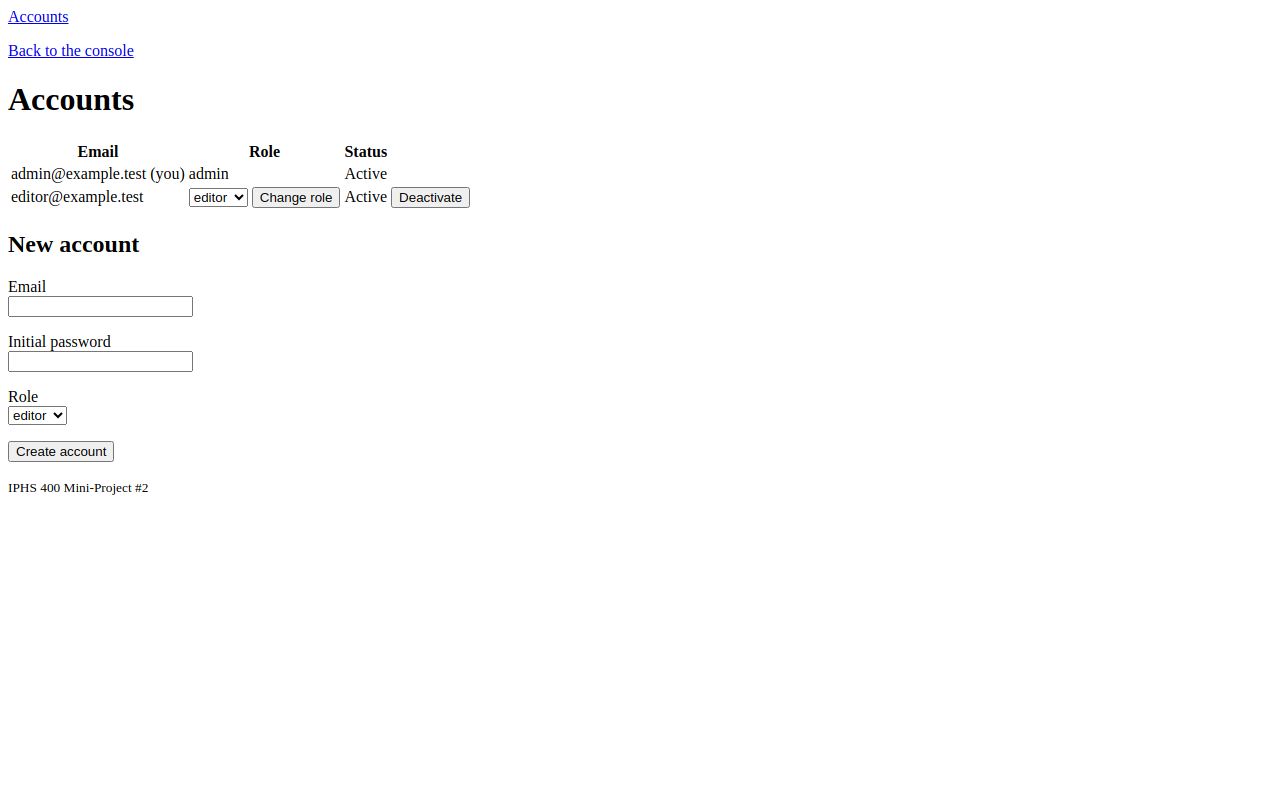
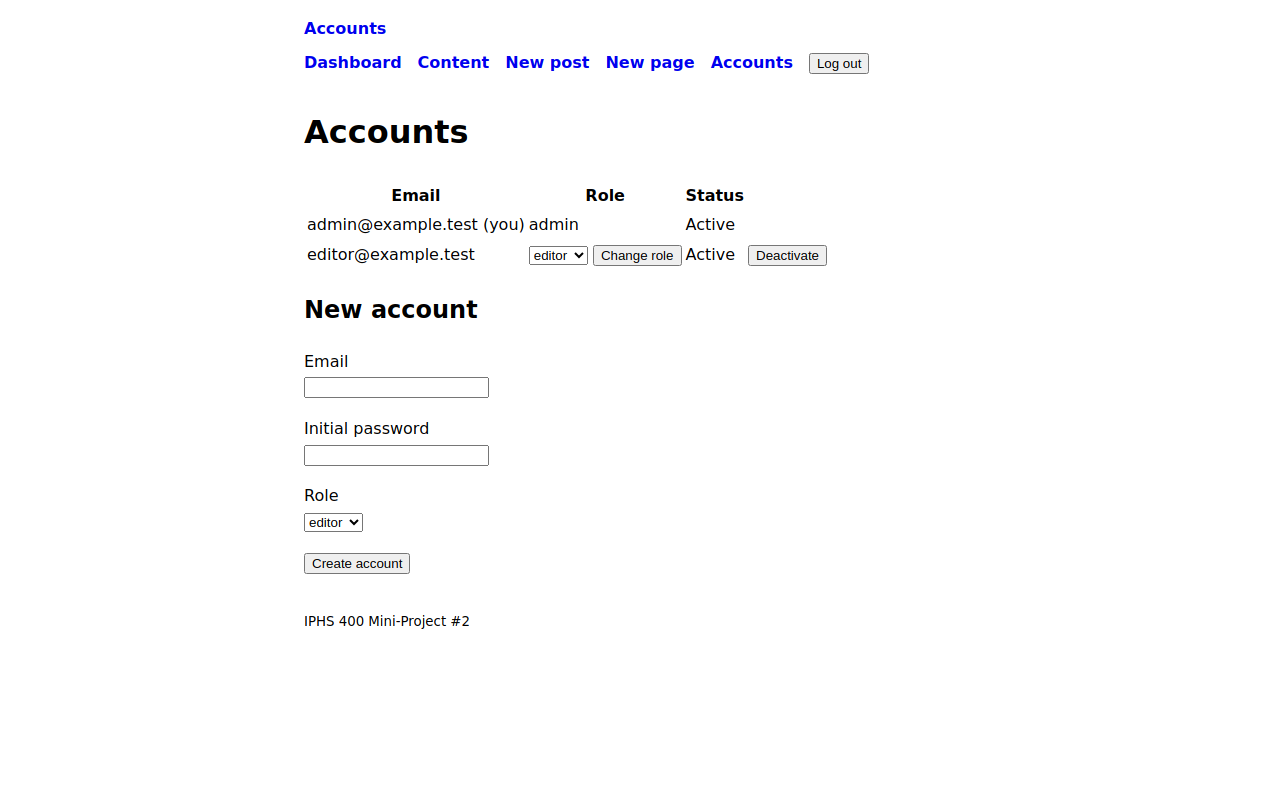
docs: retake console screenshots; report numbers without the template rows
The console screenshots now show T08's nav, stylesheet and phone layout.
Report §4 counts only my own sessions and says why the first figure was
higher; §3 dates the night I went to bed after T03. Wording is mine;
Claude corrected the numbers and the date.

diff --git a/docs/iphs400_mp2-web-cms_report_rafael-frias_20261015.md b/docs/iphs400_mp2-web-cms_report_rafael-frias_20261015.md
@@ -21,7 +21,7 @@ The AI use statement in the README.md file shows the skills and prompts used. In
 
 The Matt Pocock skills came in super useful to catch inconsistencies and mistakes that I may not be as adept in catching as a novice developer. The AI questioning me on the documents provided allowed it to catch inconsistencies between the documents that would have presented problems when trying to implement the changes, and the code review caught mistakes I was able to question and change before committing, like the homepage saying "Nothing published yet" that the AI waved through.
 
-Additionally, I went to bed after the first session where I implemented tickets T01-T03, and used /handoff to ensure I could pick up where we left off the next morning and save tokens rather than having it reread the entire session again.
+Additionally, I went to bed after implementing tickets T01-T03 on the night of Oct 14, and used /handoff to ensure I could pick up where we left off the next morning and save tokens rather than having it reread the entire session again.
 
 ## 4. Token budget: plan vs. actual
 
@@ -29,7 +29,9 @@ Plan:
 Sonnet 5.5 for /implement, and about 20% of a 5-hour window per ticket with 9 total tickets. Eventually taking up 2 and a half 5 hour windows.
 
 Actual:
-7 tickets that used about 54% of a 5 hour window in total spread across sessions. When taking into account grill, setup, and handoffs, about 116% of a 5-hour window was used in the project spread across two main days (Oct 14 and 15). This came in well under the forecast despite using Opus 5.5 instead. Likely came in under plan since opus remained efficient.
+8 tickets. T01-T06 used about 41% of a 5 hour window, and T07 about 13%. The T07 row in the ledger shows 40%, but that is because the phase label stayed on T07 while I did the screenshots, README, report and a mock grade afterwards. When taking into account grill (3%), setup (10%), and unlabelled sessions (9%), about 103% of a 5-hour window was used in the project spread across two main days (Oct 14 and 15), and about 1.8% of the weekly cap per ticket. This came in well under the forecast despite using Opus 5.5 instead. Likely came in under plan since opus remained efficient.
+
+My first numbers were higher (116%) because the template's own sessions had been mixed into my ledger. The mock grade caught it, and I moved those rows out.
 
 ## 5. Future improvements
 
